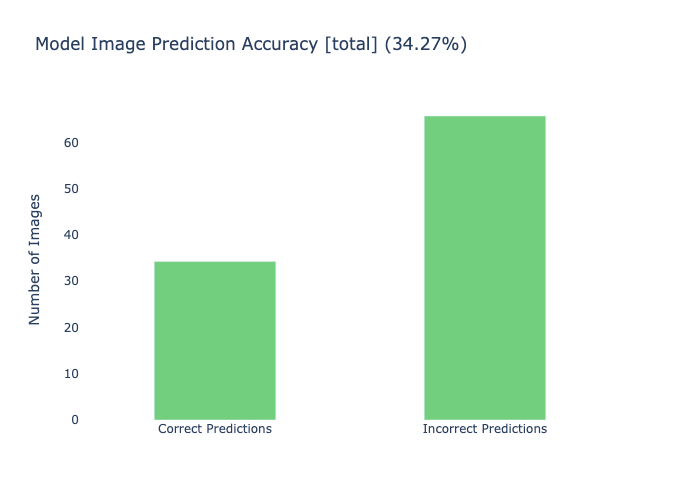
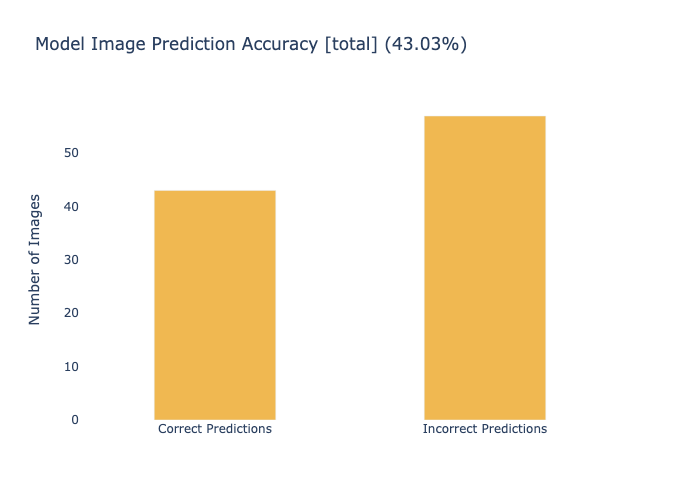
test

diff --git a/service/quality/data_quality_engine.py b/service/quality/data_quality_engine.py
@@ -82,6 +82,61 @@ class DataQuality:
         print(f"DATA CLEAN UP PERFORMED, CONSIDERING {len(cleanup_feedback)}")
         return cleanup_feedback, removed_feedback
 
+    @staticmethod
+    def exclude_faulty_feedback_view_point_elevation_v2(feedback_data):
+        user_data = {}
+        for entry in feedback_data:
+            user_id = entry.user_id
+            if user_id not in user_data:
+                user_data[user_id] = {'verdict_view_0_count': 0, 'verdict_view_1_count': 0, 'verdict_view_2_count': 0}
+            if entry.verdict_view_point_elevation == 0:
+                user_data[user_id]['verdict_view_0_count'] += 1
+            elif entry.verdict_view_point_elevation == 1:
+                user_data[user_id]['verdict_view_1_count'] += 1
+            else:
+                user_data[user_id]['verdict_view_2_count'] += 1
+
+        # Create features for anomaly detection
+        features = []
+        for user_id, counts in user_data.items():
+            ratio = counts['verdict_view_1_count'] / (
+                    counts['verdict_view_0_count'] + counts['verdict_view_1_count'] + counts['verdict_view_2_count'])
+            features.append([ratio])
+
+        # Standardize features
+        scaler = StandardScaler()
+        scaled_features = scaler.fit_transform(features)
+
+        # Apply Isolation Forest for anomaly detection
+        clf = IsolationForest(contamination=0.05)  # Adjust contamination based on your dataset
+        clf.fit(scaled_features)
+
+        # Identify users with potentially faulty feedback
+        faulty_users = set()
+        for i, prediction in enumerate(clf.predict(scaled_features)):
+            if prediction == -1:
+                faulty_users.add(list(user_data.keys())[i])
+
+        faulty_feedback = []
+        cleaned_feedback = []
+        timestamp = datetime.now().strftime('%Y-%m-%d %H:%M:%S')
+        report_lines = [f"Report generated at: {timestamp}\n\n"]
+
+        for entry in feedback_data:
+            if entry.user_id not in faulty_users:
+                cleaned_feedback.append(entry)
+            else:
+                faulty_feedback.append(entry)
+                anomaly_value = clf.decision_function([scaled_features[i]])[0]  # Get anomaly value
+                report_lines.append(f"Excluded data: {entry}, Anomaly value: {anomaly_value}\n")
+
+        # report_filename = f"reports/exclusion_report_{timestamp.replace(' ', '_').replace(':', '-')}.txt"
+        # with open(report_filename, 'w') as report_file:
+        #     report_file.writelines(report_lines)
+
+        print(f"aggregate-category-data: Finished data quality engine, removed {len(faulty_feedback)} faulty records")
+
+        return cleaned_feedback, faulty_feedback
 
     @staticmethod
     def exclude_faulty_feedback_v2(feedback_data):

diff --git a/jobs/jobs.py b/jobs/jobs.py
@@ -32,17 +32,17 @@ def aggregate_and_retrain_model():
         else:
             print(f"{IMAGE_AGGREGATION}: {len(images_ready_for_processing)} images taken for retraining")
 
-            # images_processed_through_data_quality_engine = \
-            #     DataQuality.exclude_faulty_feedback_view_point_elevation_v1(images_ready_for_processing)
-            #
-            # images_ready_for_processing = images_processed_through_data_quality_engine[0]
-            # images_excluded = images_processed_through_data_quality_engine[1]
+            images_processed_through_data_quality_engine = \
+                DataQuality.exclude_faulty_feedback_view_point_elevation_v2(images_ready_for_processing)
+
+            images_ready_for_processing = images_processed_through_data_quality_engine[0]
+            images_excluded = images_processed_through_data_quality_engine[1]
             #
             # # REPORT
             # DataQualityValidation.prepare_report(collected_report, images_excluded)
 
-            # print(
-            #     f"{IMAGE_AGGREGATION}: {len(images_excluded)} feedbacks excluded")
+            print(
+                f"{IMAGE_AGGREGATION}: {len(images_excluded)} feedbacks excluded")
 
             print(
                 f"{IMAGE_AGGREGATION}: {len(images_ready_for_processing)} feedbacks taken for retraining after quality engine")

diff --git a/vizualization_tools/model accuracy_validation.py b/vizualization_tools/model accuracy_validation.py
@@ -11,7 +11,7 @@ total_images = 100
 # correct_predictions = 3100 + 2500 + 2100
 # correct_predictions = 305
 # correct_predictions = 285
-correct_predictions = 34.27
+correct_predictions = 43.03
 
 # Calculate the accuracy percentage
 accuracy_percentage = (correct_predictions / total_images) * 100
@@ -22,8 +22,8 @@ fig = px.bar(
     y=[correct_predictions, total_images - correct_predictions],
     labels={"x": "Prediction Results", "y": "Number of Images"},
     title=f"Model Image Prediction Accuracy [total] ({accuracy_percentage:.2f}%)",
-    color_discrete_sequence=["#72cf7e", "#72cf7e"]
-    # color_discrete_sequence=["#f0b851", "#f0b851"]
+    # color_discrete_sequence=["#72cf7e", "#72cf7e"]
+    color_discrete_sequence=["#f0b851", "#f0b851"]
 )
 
 # Customize the background color to white
